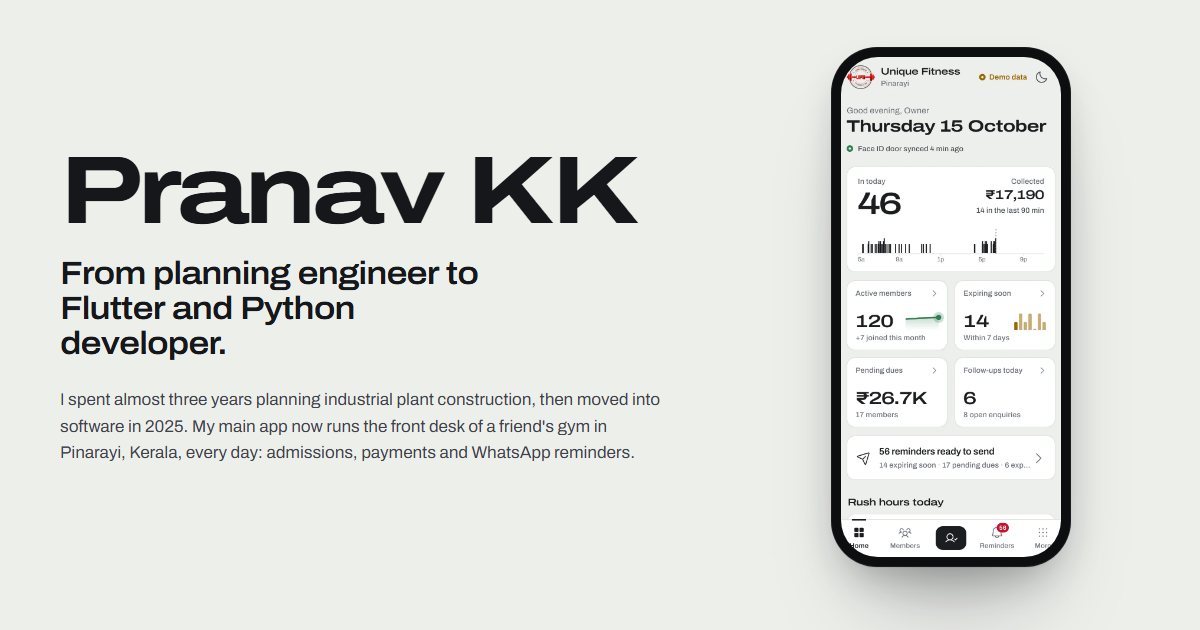
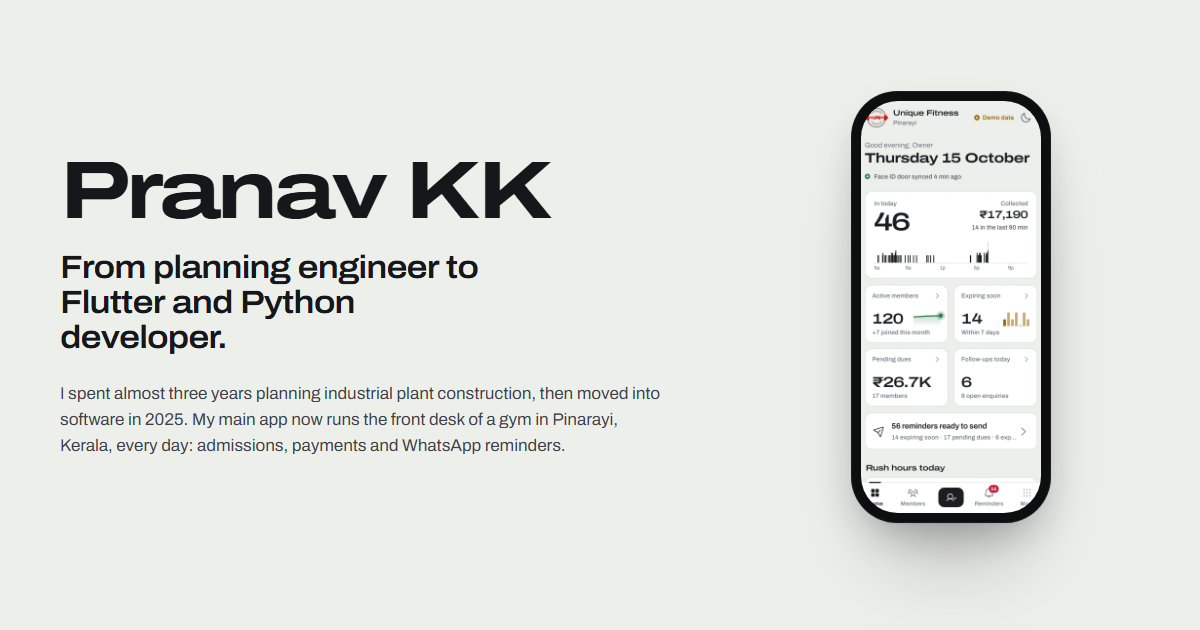
Describe the gym without calling it a friend's

diff --git a/index.html b/index.html
@@ -39,7 +39,7 @@
           <p class="hero-role" data-hero-fade>From planning engineer to Flutter and Python developer.</p>
           <p class="hero-lede" data-hero-fade>
             I spent almost three years planning industrial plant construction, then moved into software
-            in 2025. My main app now runs the front desk of a friend's gym in Pinarayi, Kerala, every day:
+            in 2025. My main app now runs the front desk of a gym in Pinarayi, Kerala, every day:
             admissions, payments and WhatsApp reminders.
           </p>
           <ul class="hero-index" data-hero-fade aria-label="Projects">
@@ -73,7 +73,7 @@
           <p class="feature-label">Main project</p>
           <h2 id="gym-title" class="feature-title" data-split-words>Unique Fitness Gym</h2>
           <p class="feature-lede">
-            The front-desk app of a friend's gym in Pinarayi, Kerala, used there every day on the gym
+            The front-desk app of a gym in Pinarayi, Kerala, used there every day on the gym
             owner's Android phone and tablet. It handles admissions, payments, dues and WhatsApp reminders
             and keeps its data on the device. It also includes a client for the gym's eSSL face-recognition
             door, tested against a simulated terminal; the door itself isn't connected yet.
